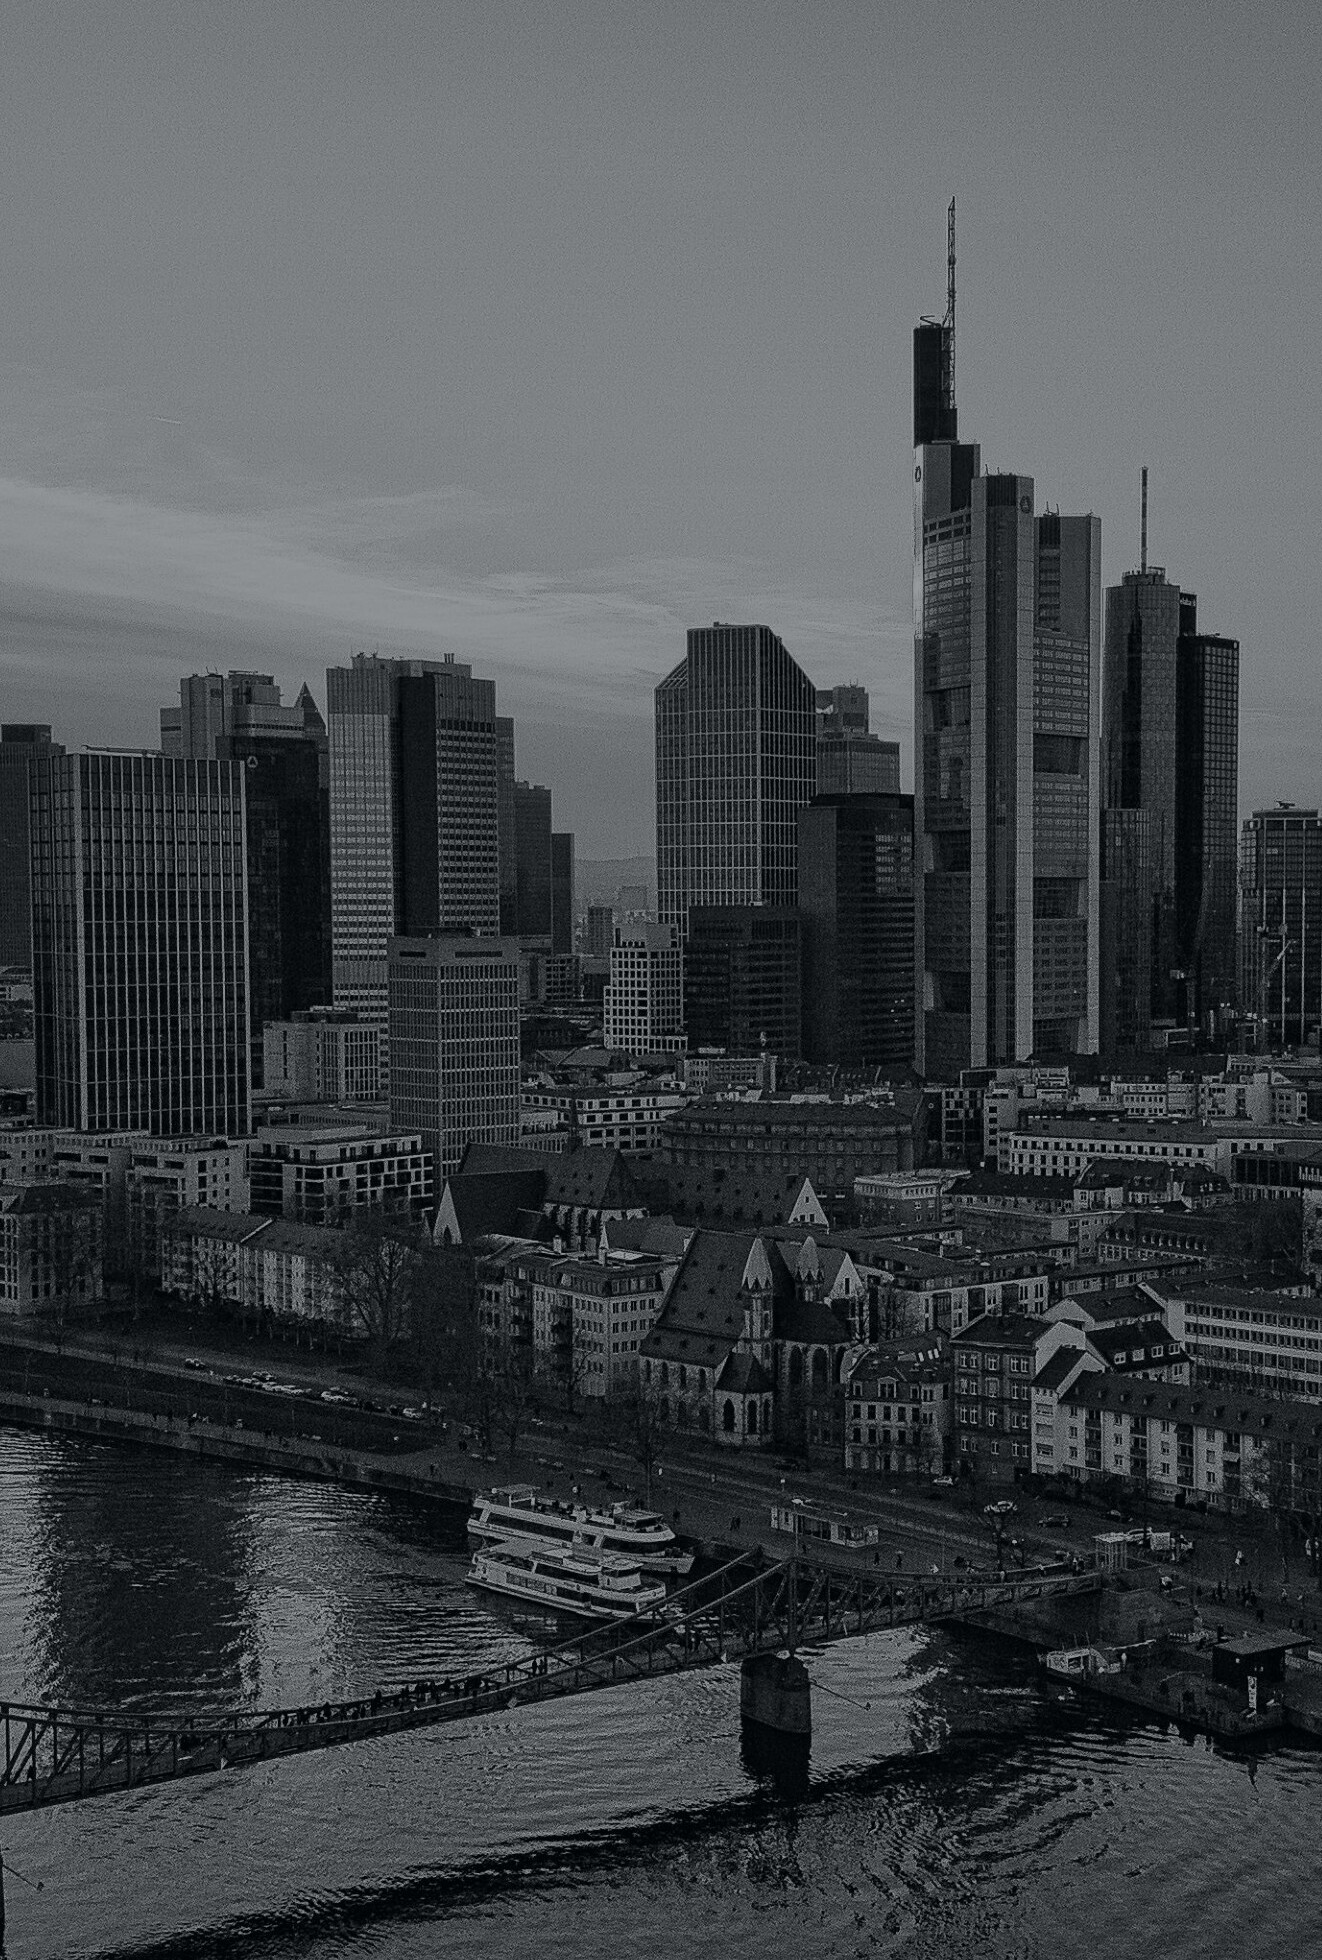
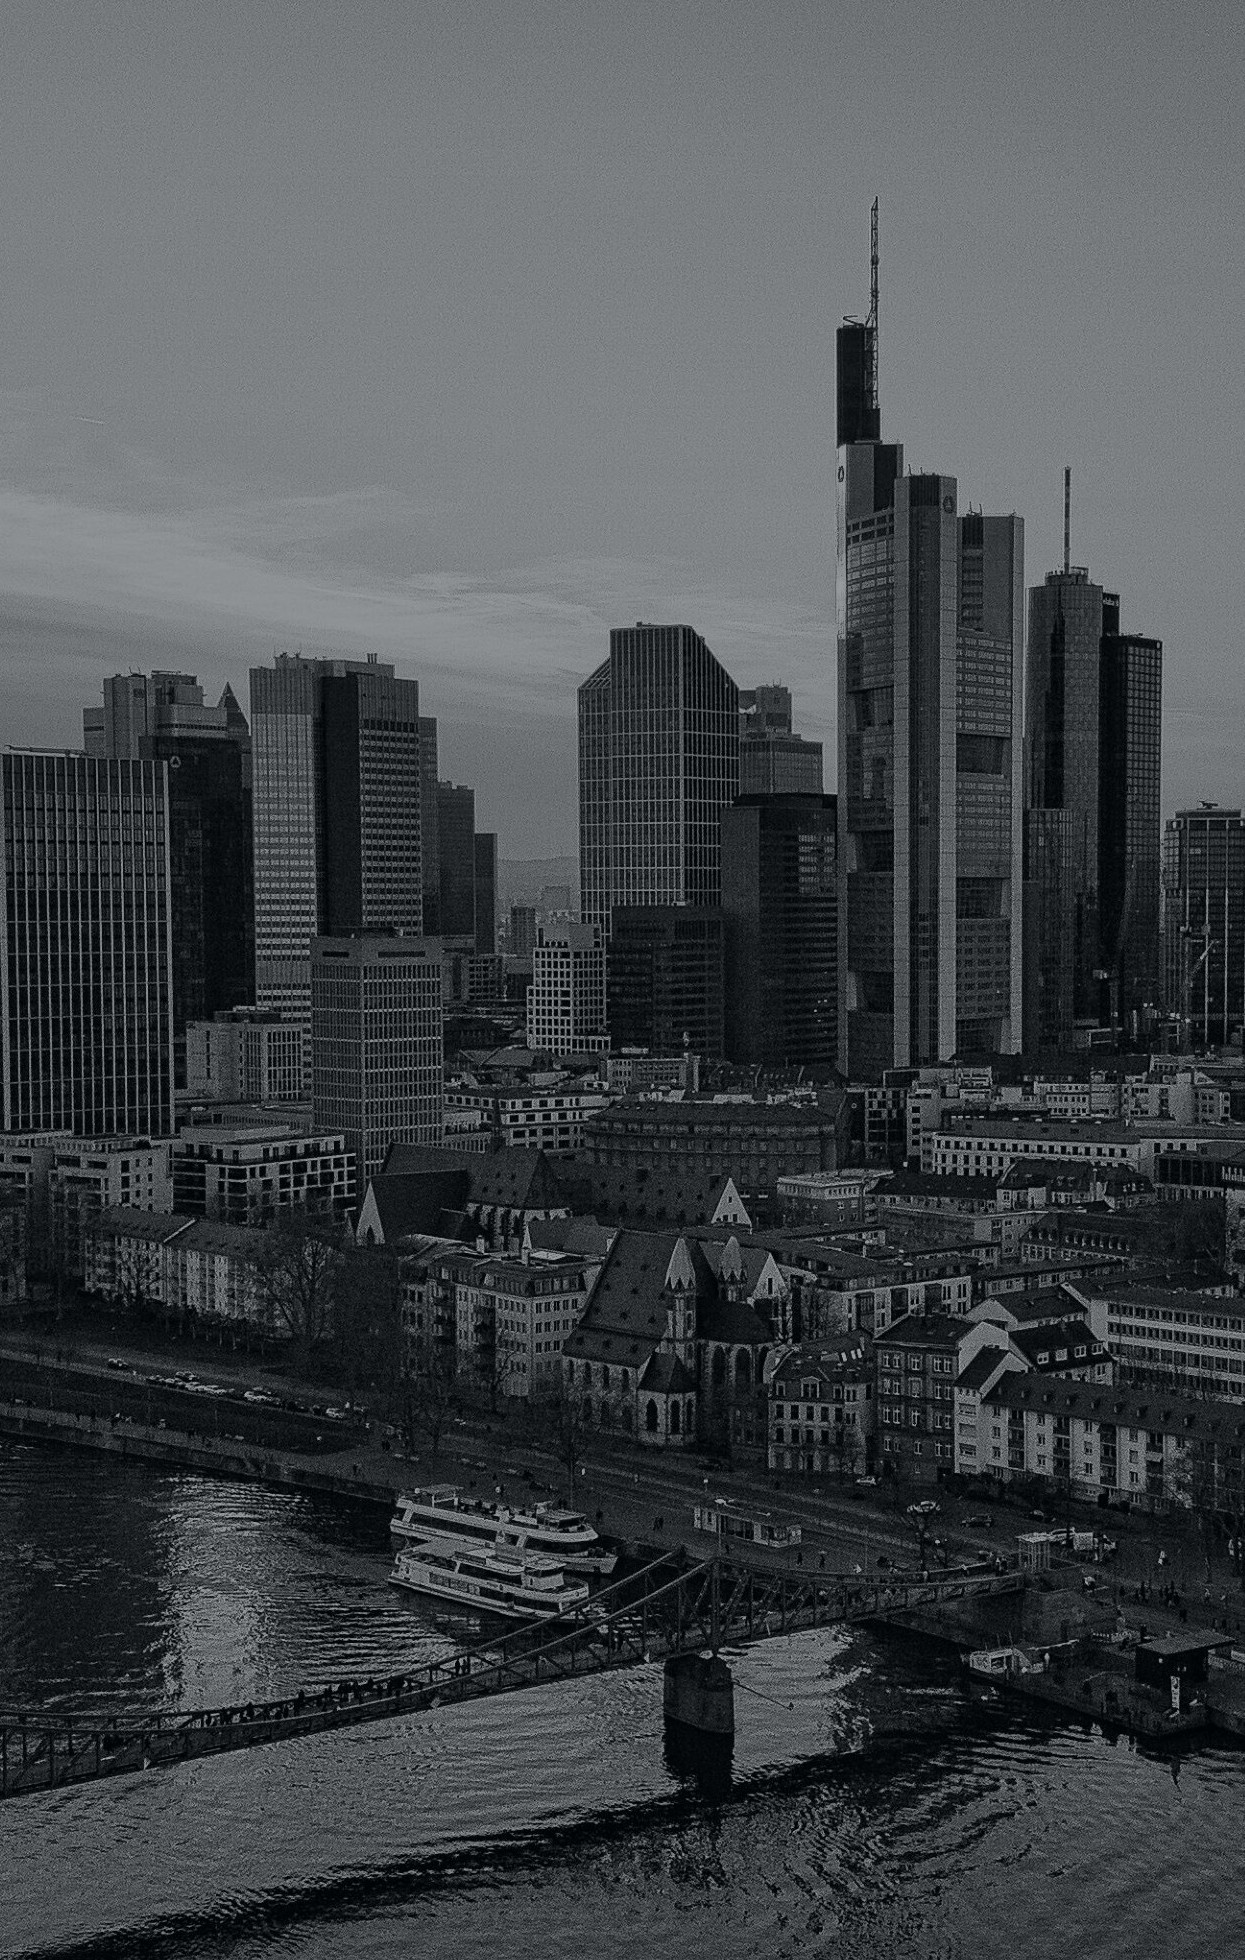
changes

Changed region(s): [[0.0, 0.0934, 1.0, 1.0]]

diff --git a/styles.css b/styles.css
@@ -3,7 +3,7 @@
 /* Default background image styling for larger screens (desktop and tablets) */
 .image-container {
   background-image: url("assets/background_edit.jpg");
-  background-size: contain;
+  background-size: cover;
   background-position: center center;
   background-repeat: no-repeat;
   background-attachment: fixed;
